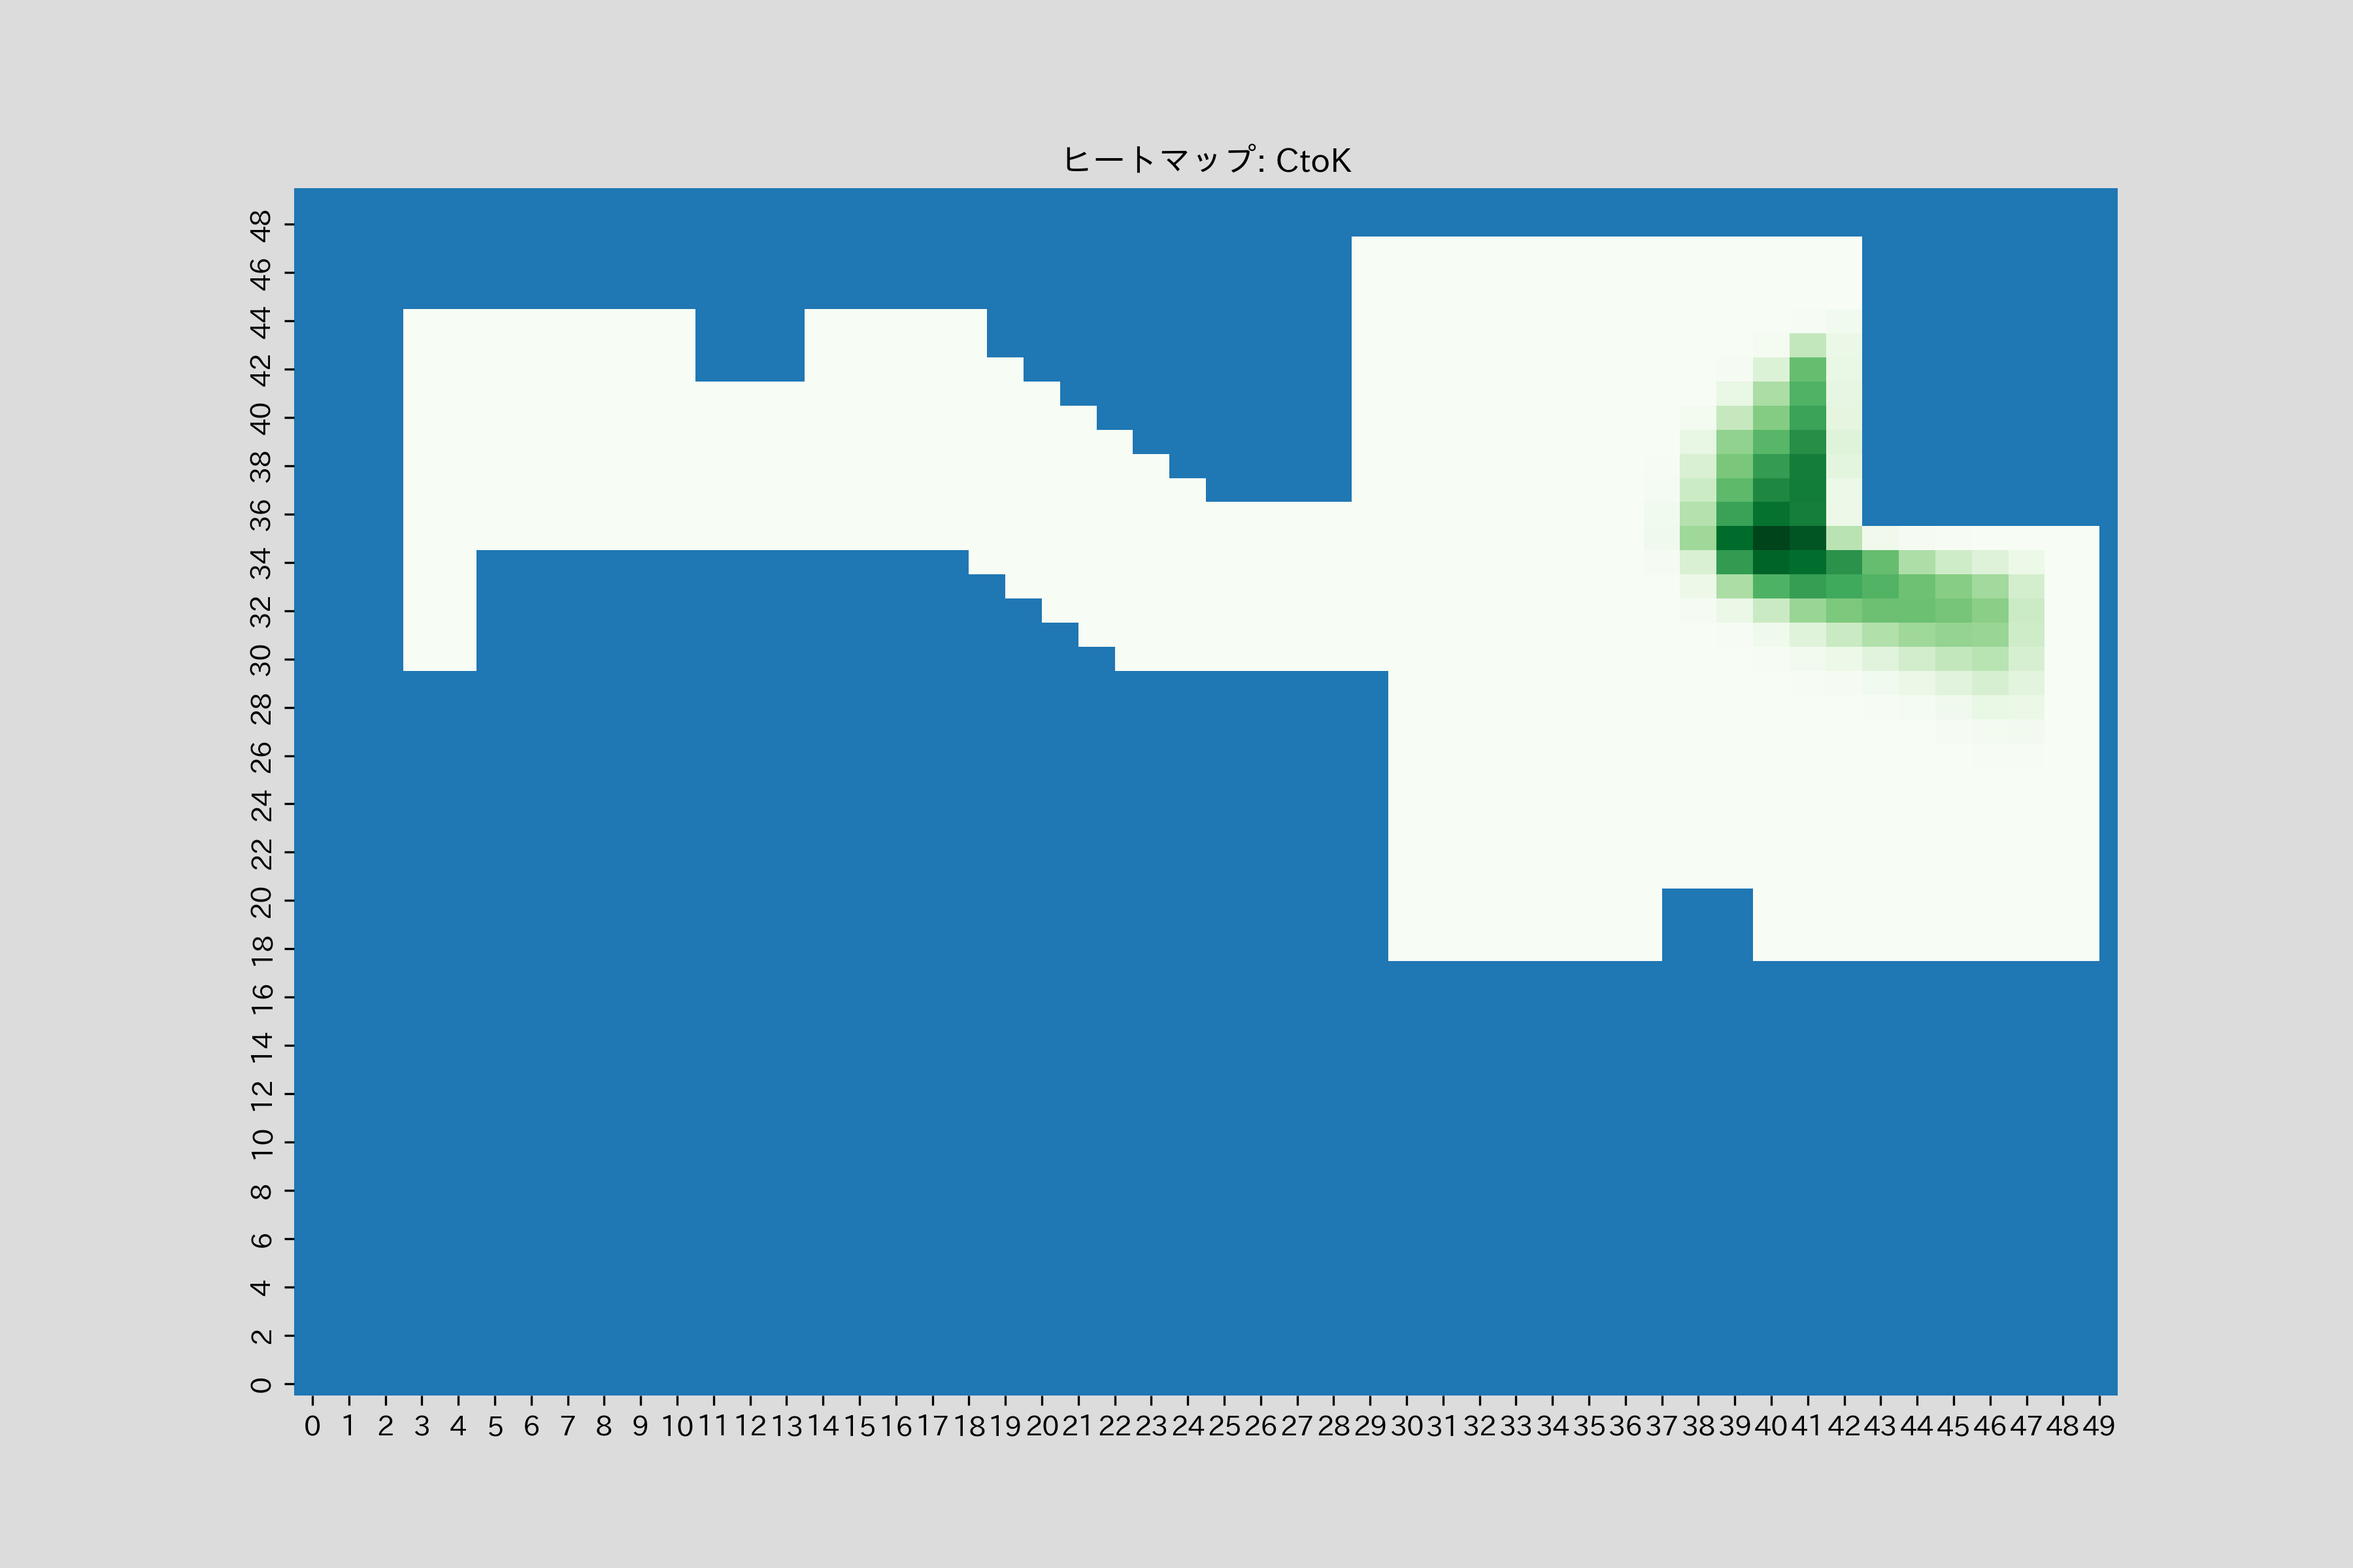
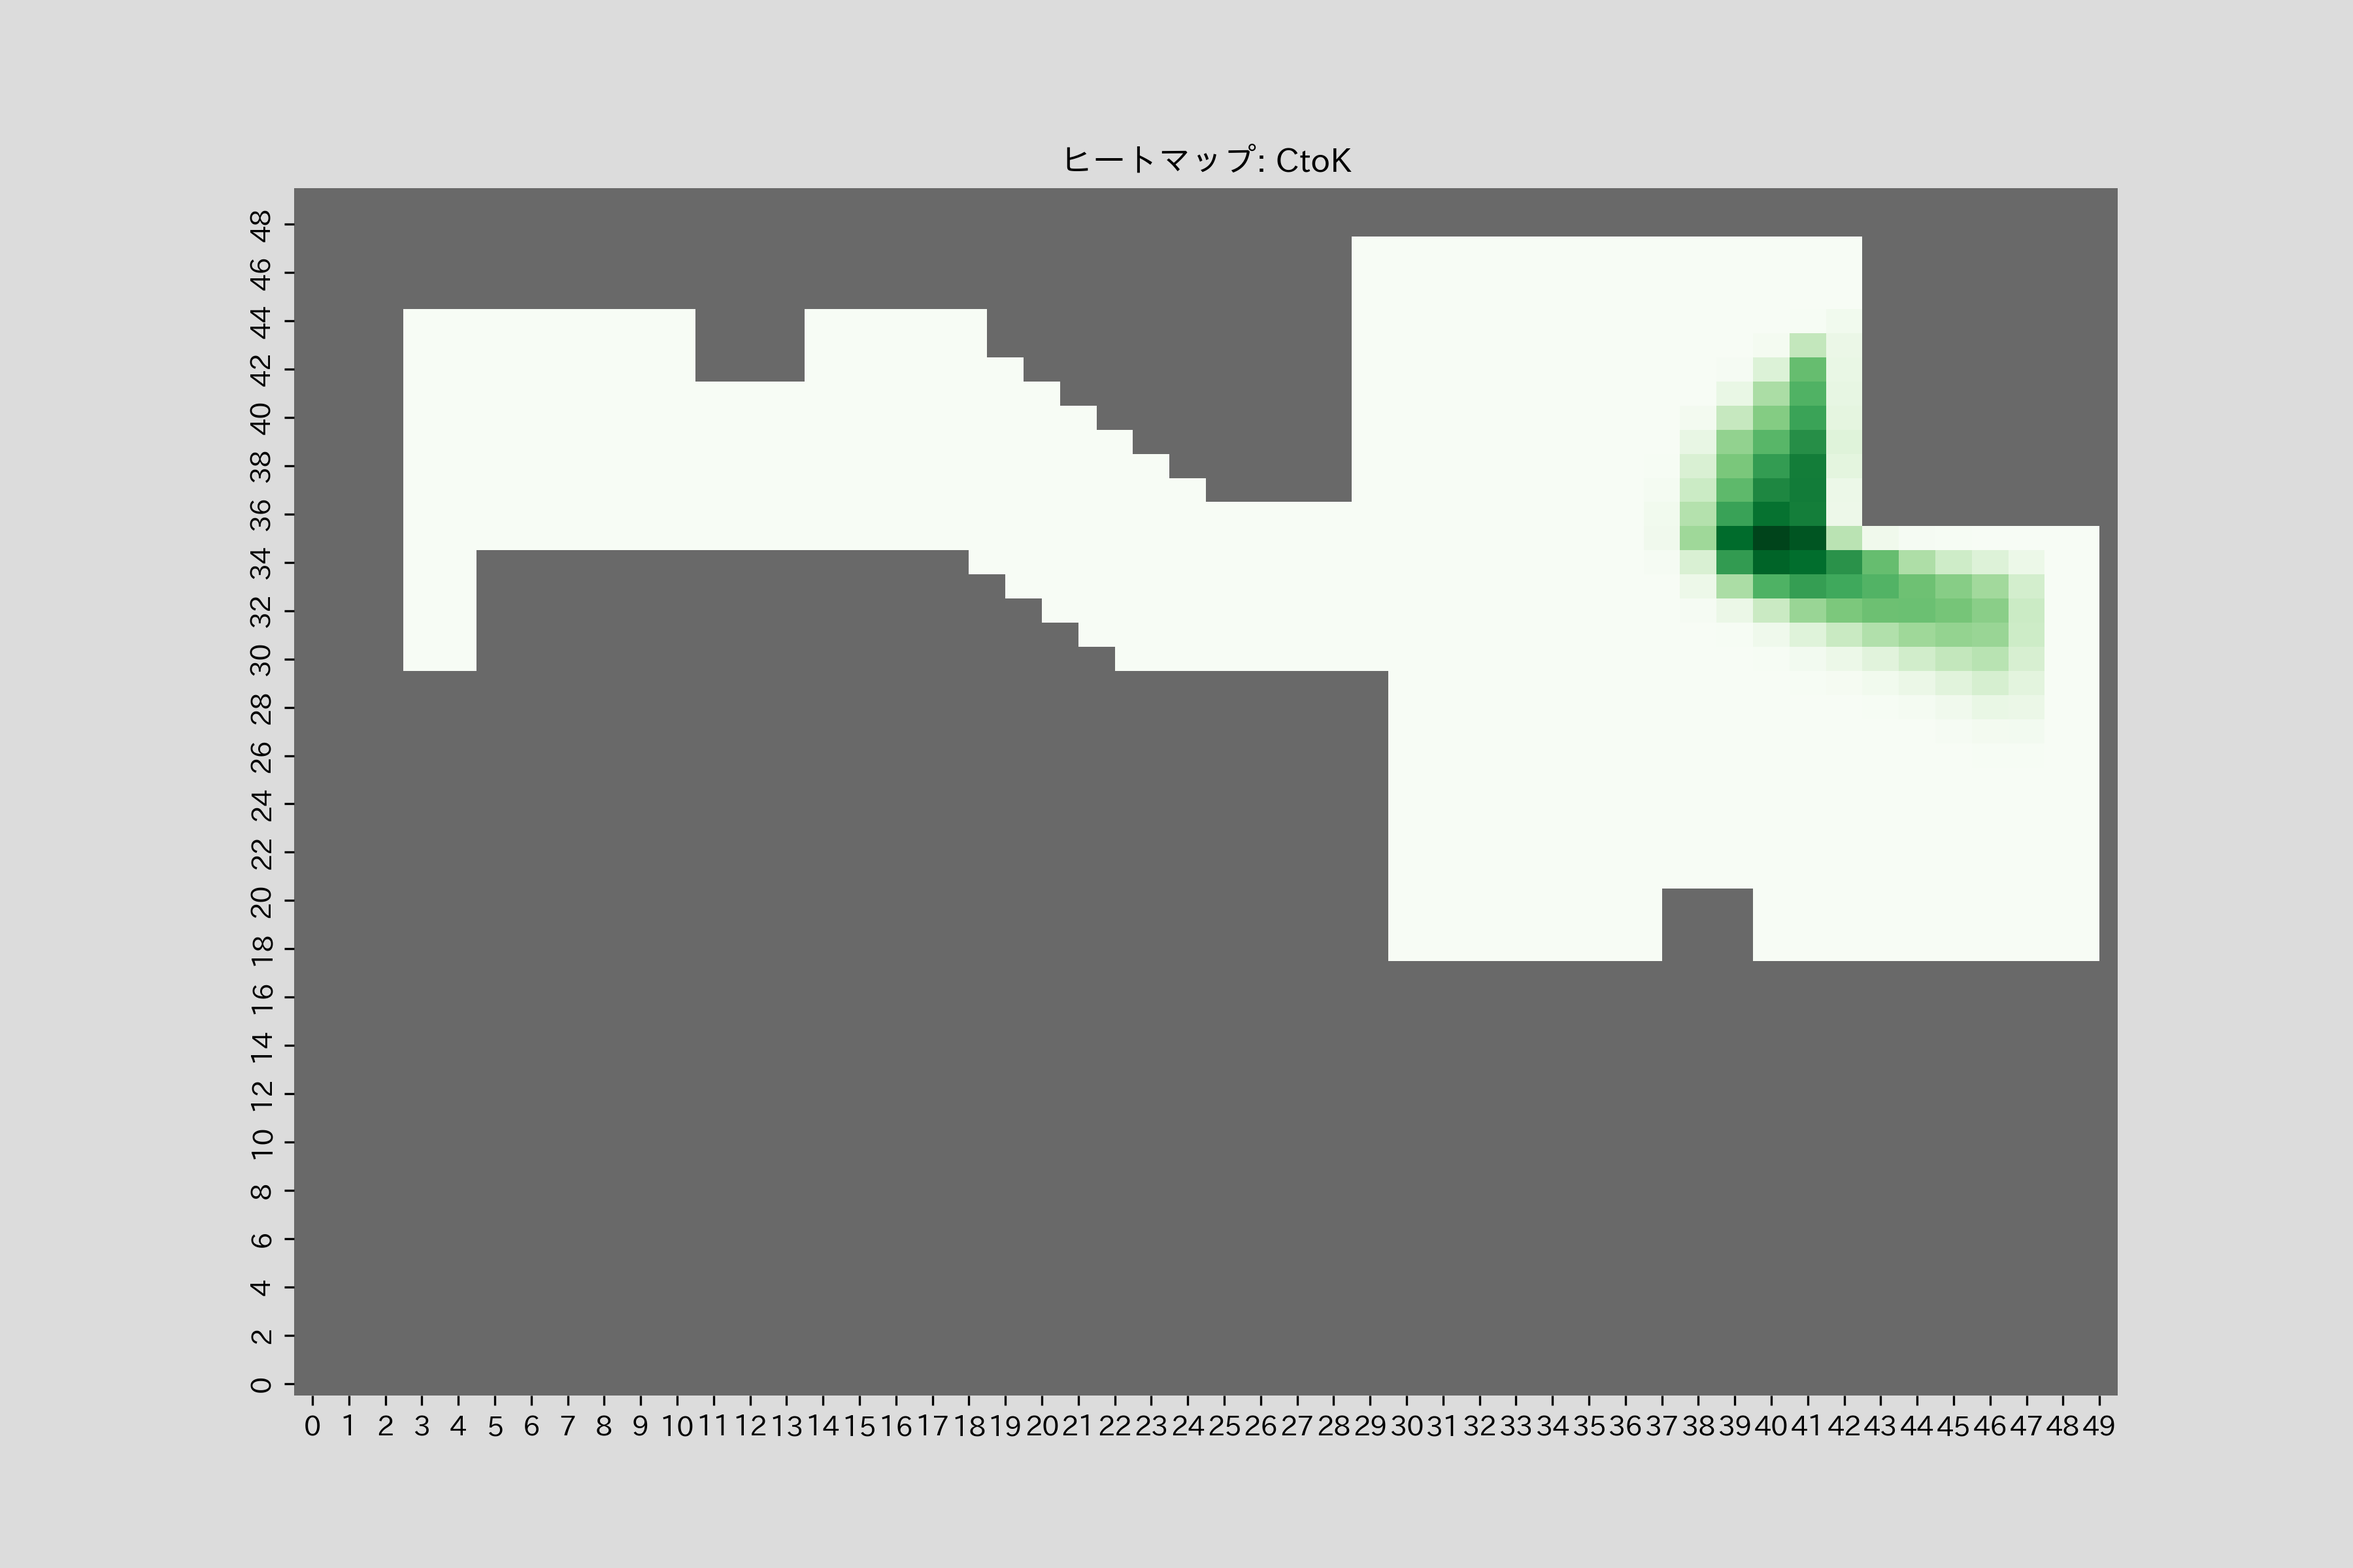
normalの壁色変更

diff --git a/gap_morning_latest.py b/gap_morning_latest.py
@@ -10,8 +10,8 @@ from result_morning_latest import *
 
 type = "result_morning"
 
-now_string = "wall10"
-kabe = True
+now_string = "normal"
+kabe = False
 
 s_now_string = "s_" + now_string
 
@@ -194,4 +194,4 @@ def CountZero(now):
 
 
 HeatmappingNumber(now, walls, now_string)
-GappingHeatmapNew(now, walls, now_string)
+# GappingHeatmapNew(now, walls, now_string)
